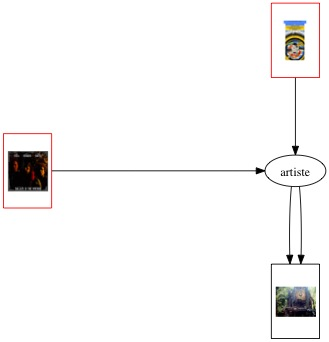
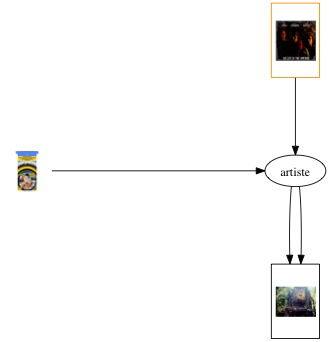
Prise en compte des couleurs dans la génération des hyper-graphes
Merci de lire le README, sinon vous risquerez d'avoir des erreurs :)

Changed region(s): [[0.0, 0.3801, 0.1824, 0.614], [0.8207, 0.0, 0.9726, 0.2339]]

diff --git a/public/rdf/ConnectionBase.java b/public/rdf/ConnectionBase.java
@@ -1,0 +1,77 @@
+package TP3;
+import java.io.File;
+import java.io.IOException;
+import java.sql.*;
+import java.util.*;
+
+import org.jdom2.Document;
+import org.jdom2.Element;
+import org.jdom2.JDOMConstants;
+import org.jdom2.JDOMException;
+import org.jdom2.input.SAXBuilder;
+import org.jdom2.transform.JDOMSource;
+
+public class ConnectionBase {
+
+	private static Connection conn;
+	private static String quoteCharacter="'";
+	
+	public static void open(){
+		try {
+			Class.forName("org.postgresql.Driver");
+			conn = DriverManager.getConnection("jdbc:postgresql://localhost:5432/UpYourMood_DB", "postgres", "loda");
+			//conn = DriverManager.getConnection("jdbc:postgresql://localhost:5433/UpYourMood_DB", "postgres", "loda");
+		} catch (ClassNotFoundException | SQLException e1) {
+			// TODO Auto-generated catch block
+			e1.printStackTrace();
+		}
+	
+	}
+	
+	public static ResultSet requete(String req){
+		Statement stmt;
+		try {
+			stmt = conn.createStatement(ResultSet.TYPE_SCROLL_INSENSITIVE,ResultSet.CONCUR_READ_ONLY);
+			return stmt.executeQuery(req);
+		} catch (SQLException e) {
+			//System.out.println("Erreur requ??te : " + e.getMessage()); 
+			return null;
+		}
+	}
+	
+	public static void close(){
+		try {
+			conn.close();
+		} catch (SQLException e) {
+			// TODO Auto-generated catch block
+			e.printStackTrace();
+		}
+	}
+	
+	public static void main(String[] args){
+		ConnectionBase.open();
+		ConnectionBase.requete("CREATE TABLE colors (hexadecimal character varying(255),"
+				+ "color character varying(255))");
+		SAXBuilder sxb=new SAXBuilder();
+		try {
+			Document document=sxb.build(new File("colors.xml"));
+			Element racine = document.getRootElement();
+			List<Element> list=racine.getChildren();
+			Iterator<Element> iter=list.iterator();
+			while (iter.hasNext()){
+				Element chose=iter.next();
+                String hex=chose.getAttributeValue("hexadecimal");
+                String color=chose.getAttributeValue("string");
+                ConnectionBase.requete("INSERT INTO colors (hexadecimal,color) VALUES "
+                		+ "("+quoteCharacter+hex+quoteCharacter+","+quoteCharacter+color+quoteCharacter+")");
+			}
+		} catch (JDOMException e) {
+			// TODO Auto-generated catch block
+			e.printStackTrace();
+		} catch (IOException e) {
+			// TODO Auto-generated catch block
+			e.printStackTrace();
+		}
+		ConnectionBase.close();
+	}
+}

diff --git a/app/models/graphviz/HyperGraph.java b/app/models/graphviz/HyperGraph.java
@@ -7,8 +7,11 @@ import java.io.InputStream;
 import java.net.MalformedURLException;
 import java.net.URL;
 import java.net.URLConnection;
+import java.sql.ResultSet;
+import java.sql.SQLException;
 import java.util.*;
 
+import models.ConnectionBase;
 import models.Emotion;
 import models.Think;
 
@@ -18,7 +21,7 @@ public class HyperGraph {
 	private GraphViz gv;
 	private HashMap<String,Integer> hosts;
 	private HashMap<String,Integer> hostsImages;
-	
+	private String quoteCharacter="'";
 	private int nbreStruct=0;
 	private int nbreStructImage=0;
 	
@@ -69,6 +72,23 @@ public class HyperGraph {
 		gv.writeGraphToFile( gv.getGraph( gv.getDotSource(), type , representationType), out );
 	}
 	
+	private String getColor(String hexadecimal){
+		ConnectionBase.open();
+		String retour="";
+		ResultSet res=ConnectionBase.requete("SELECT color FROM colors WHERE hexadecimal="+quoteCharacter+hexadecimal+quoteCharacter);
+		try {
+			while (res.next()){
+				retour=res.getString("color");
+			}
+		} catch (SQLException e) {
+			// TODO Auto-generated catch block
+			e.printStackTrace();
+		}
+		
+		ConnectionBase.close();
+		return retour;
+	}
+	
 	private int getFile(String host,String couleur)
 	{
 
@@ -97,8 +117,9 @@ public class HyperGraph {
 				while ((read = input.read(buffer)) > 0)
 					writeFile.write(buffer, 0, read);
 				writeFile.flush();
-
-				gv.addln("struct"+nbreStruct+" [margin=0 shape=box, style=filled, fillcolor=white, color=red, label=" +
+				
+				String recup=getColor(couleur);
+				gv.addln("struct"+nbreStruct+" [margin=0 shape=box, style=filled, fillcolor=white, color="+recup+", label=" +
 						"<<table border=\"0\" cellborder=\"0\">"+
 						"<tr><td fixedsize=\"true\" width=\"50\" height=\"80\"><img scale=\"true\" src=\"public/pochette/"+nbreStruct+fileName+"\"/>" +
 						"</td></tr>"+

diff --git a/app/models/UpQueries.java b/app/models/UpQueries.java
@@ -78,7 +78,6 @@ public class UpQueries {
 				String image=sol.get("?image").toString();
 				String idMusic=sol.get("?idMusic").toString();
 				String couleur=rdfBC.getMaxColorMusic(idMusic);
-				//System.out.println(couleur);
 				emotion.put(new Emotion(pochette,mot,couleur), i);
 				think.put(new Think(mot,image),i);
 				i++;
@@ -97,17 +96,18 @@ public class UpQueries {
 	 */
 	public void hyperGraphOfAUser(String pseudo){
 		ResultSet rs=null;
+		String userR = "<"+OntologyUpYourMood.getUymUser()+pseudo+">";
+		
 		String req2=prolog5 + NL + prolog7 + NL + prolog6 + NL + prolog1 + NL +
 				"SELECT ?mot ?pochette ?image ?idMusic ?user " +
 				"WHERE { " +
-				"?user user:hasMusicalExperience ?experi . " +
+				userR+" user:hasMusicalExperience ?experi . " +
 				"?experi nicetag:makesMeFeel ?chose . " +
 				"?chose wordconnotation:isAssociatedBy ?mot . " +
 				"?chose wordconnotation:makesMeThink ?image . " +
 				"?experi user:hasListen ?idMusic . " +
 				"?idMusic2 foaf:depiction ?pochette ." +
 				"FILTER regex(str(?idMusic2) , ?idMusic) . "+
-				"FILTER regex(str(?user),"+pseudo+") "+
 				"}";
 		Query query = QueryFactory.create(req2);
 		QueryExecution qexec = QueryExecutionFactory.create(query, m);

diff --git a/README.md b/README.md
@@ -78,3 +78,7 @@ set compteur=0; dans un terminal SQL
  5. Pour pouvoir obtenir un graphe contenant les images des pochettes d'album et les images
  choisies par le ou les utilisateurs, veuillez créer dans le dossier un public deux sous-dossiers.
  Le premier s'appelant downloadImages le deuxième pochette (merci de respecter la casse).
+ 
+ 6. Pour pouvoir générer les différents hyper-graphes, veuillez copier les fichiers colors.xml et 
+ ConnectionBase.java dans /public/rdf dans un projet à part puis exécuter la classe java
+ qui vous est donnée.
